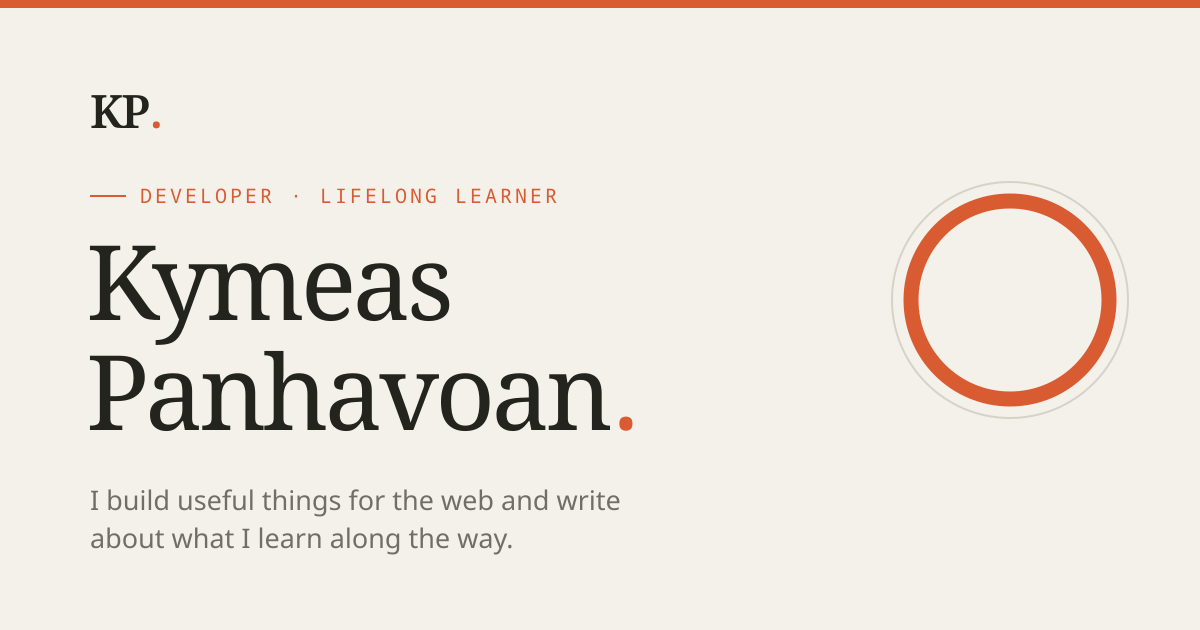
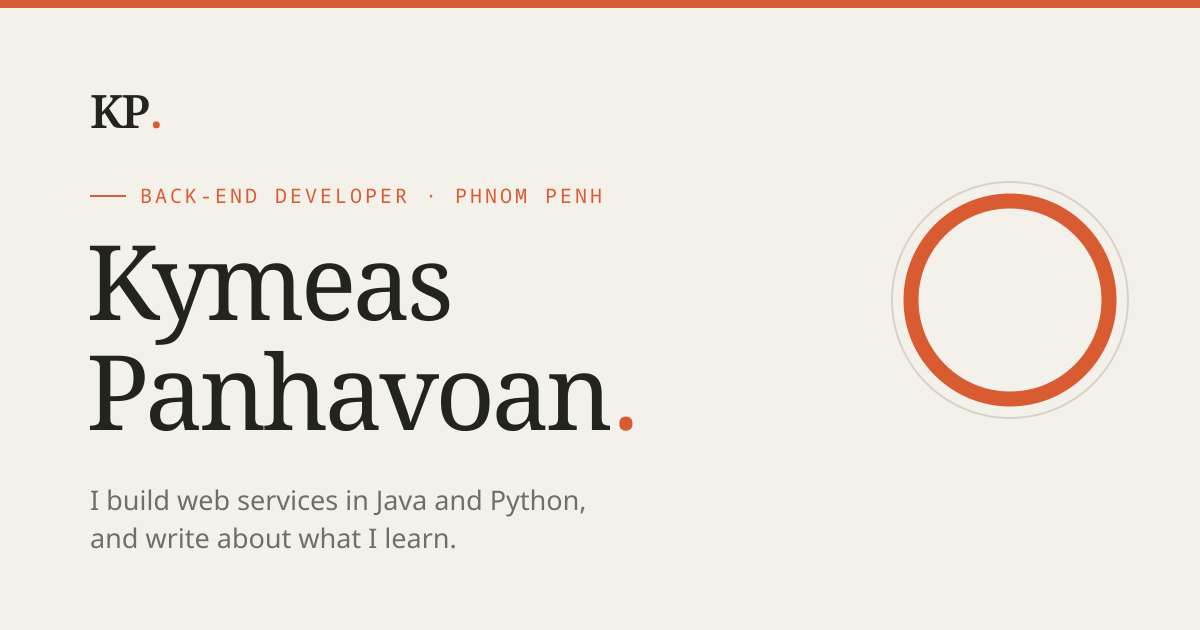
Replace template copy with real details from LinkedIn
- resume.ts: real Experience (Back End Developer, Innotech Solutions),
  Education (RUPP, TUX Global Institute, DE Zoomcamp, Samsung Innovation
  Campus), and new certifications + awards arrays (Meta Version Control,
  HackerRank Python; Huawei ICT Competition, Engineering Day runner-up).
  Skills reoriented toward back end.
- resume page: add Certifications and Honors & awards sections.
- Homepage hero + Currently block, About narrative, BaseLayout title/
  description, and the OG card: rewritten from generic "web/product
  designer" framing to back-end developer in Phnom Penh.
- CvList tolerates entries with no detail line.

Placeholders still needing the user: what they do at Innotech, exact RUPP
degree/major, and the full skills list (LinkedIn only exposes 2 of 16).

Changed region(s): [[0.1233, 0.3016, 0.5242, 0.3317], [0.1542, 0.7841, 0.5242, 0.8143], [0.0925, 0.8444, 0.4317, 0.8746]]

diff --git a/src/data/resume.ts b/src/data/resume.ts
@@ -1,15 +1,16 @@
 import {
-  siPython, siOpenjdk, siTypescript, siGnubash,
-  siFastapi, siSpringboot, siNodedotjs,
-  siPostgresql, siMysql, siSqlite, siPandas,
-  siDocker, siLinux, siGit, siGithubactions,
+  siPython, siOpenjdk, siTypescript, siJavascript, siGnubash,
+  siSpringboot, siFastapi, siNodedotjs,
+  siReact, siNextdotjs, siHtml5, siCss,
+  siPostgresql, siMysql, siSqlite,
+  siDocker, siLinux, siGit,
 } from 'simple-icons';
 
 export interface ResumeEntry {
   role: string;
   org: string;
   dates: string;
-  detail: string;
+  detail?: string;
 }
 
 export interface Skill {
@@ -28,45 +29,76 @@ const skill = (icon: { title: string; path: string }, name?: string): Skill => (
   path: icon.path,
 });
 
-// What you're comfortable working in. Edit freely — keep each group short
-// (roughly 3–6). Icons come from the `simple-icons` package; swap `siFoo`
-// for another export to change one.
+// TODO(kymeas): your LinkedIn lists 16 skills but only shows two publicly.
+// This set is inferred from your projects, certs, and coursework — trim it to
+// what you'd actually want to be asked about.
 export const skills: SkillGroup[] = [
-  { label: 'Languages', items: [skill(siPython), skill(siOpenjdk, 'Java'), skill(siTypescript), skill(siGnubash, 'Bash')] },
-  { label: 'Backend', items: [skill(siFastapi), skill(siSpringboot, 'Spring Boot'), skill(siNodedotjs, 'Node.js')] },
-  { label: 'Databases', items: [skill(siPostgresql), skill(siMysql), skill(siSqlite), skill(siPandas, 'pandas')] },
-  { label: 'Infra & tooling', items: [skill(siDocker), skill(siLinux), skill(siGit), skill(siGithubactions, 'GitHub Actions')] },
+  { label: 'Languages', items: [skill(siPython), skill(siOpenjdk, 'Java'), skill(siJavascript, 'JavaScript'), skill(siTypescript), skill(siGnubash, 'Bash')] },
+  { label: 'Back end', items: [skill(siSpringboot, 'Spring Boot'), skill(siFastapi), skill(siNodedotjs, 'Node.js')] },
+  { label: 'Front end', items: [skill(siReact), skill(siNextdotjs, 'Next.js'), skill(siHtml5, 'HTML'), skill(siCss)] },
+  { label: 'Databases', items: [skill(siPostgresql), skill(siMysql), skill(siSqlite)] },
+  { label: 'Tooling', items: [skill(siDocker), skill(siLinux), skill(siGit)] },
 ];
 
-// Fill these in with your real details. Newest first.
-// Experience is also shown (compact) on the homepage.
-
+// Newest first. Experience is also shown (compact) on the homepage.
 export const experience: ResumeEntry[] = [
   {
-    role: 'Role title',
-    org: 'Company or organisation',
-    dates: '2025 — Present',
-    detail: 'One or two lines: what you owned, what you built, the impact or what you learned.',
-  },
-  {
-    role: 'Role title',
-    org: 'Company or organisation',
-    dates: '2024 — 2025',
-    detail: 'One or two lines. Drop this entry if you only have one for now.',
+    role: 'Back End Developer',
+    org: 'Innotech Solutions',
+    dates: 'Mar 2026 — Present',
+    detail: 'Full-time, on-site in Phnom Penh. Back-end web and web-application development. (Add a line or two on the services / features you own.)',
   },
 ];
 
 export const education: ResumeEntry[] = [
   {
-    role: 'Your degree',
-    org: 'University',
-    dates: '2022 — 2026',
-    detail: 'Relevant coursework, focus, or anything worth calling out.',
+    role: 'Bachelor’s degree',
+    org: 'Royal University of Phnom Penh',
+    dates: '2023 — 2026',
+    detail: 'Confirm your exact degree and major.',
+  },
+  {
+    role: 'Associate’s degree',
+    org: 'TUX Global Institute',
+    dates: 'Feb 2025 — Present',
   },
   {
     role: 'Data Engineering Zoomcamp',
     org: 'DataTalks.Club',
     dates: '2026',
     detail: 'Docker, workflow orchestration, data warehousing, and batch/stream processing. In progress.',
+  },
+  {
+    role: 'Samsung Innovation Campus',
+    org: 'Samsung',
+    dates: 'Apr — Dec 2024',
+    detail: 'Python and data structures.',
+  },
+];
+
+export const certifications: ResumeEntry[] = [
+  {
+    role: 'Version Control',
+    org: 'Meta',
+    dates: 'Oct 2025',
+    detail: 'Credential HL7STCYUTTRE',
+  },
+  {
+    role: 'Python (Basic)',
+    org: 'HackerRank',
+    dates: 'Jun 2024',
+  },
+];
+
+export const awards: ResumeEntry[] = [
+  {
+    role: 'Huawei ICT Competition 2024–2025 Cambodia — National Round',
+    org: 'Huawei Cambodia',
+    dates: 'Dec 2025',
+  },
+  {
+    role: 'Engineering Day Competition — 1st Runner-Up',
+    org: 'RUPP, Dept. of Information Technology & Engineering',
+    dates: 'Jan 2023',
   },
 ];
